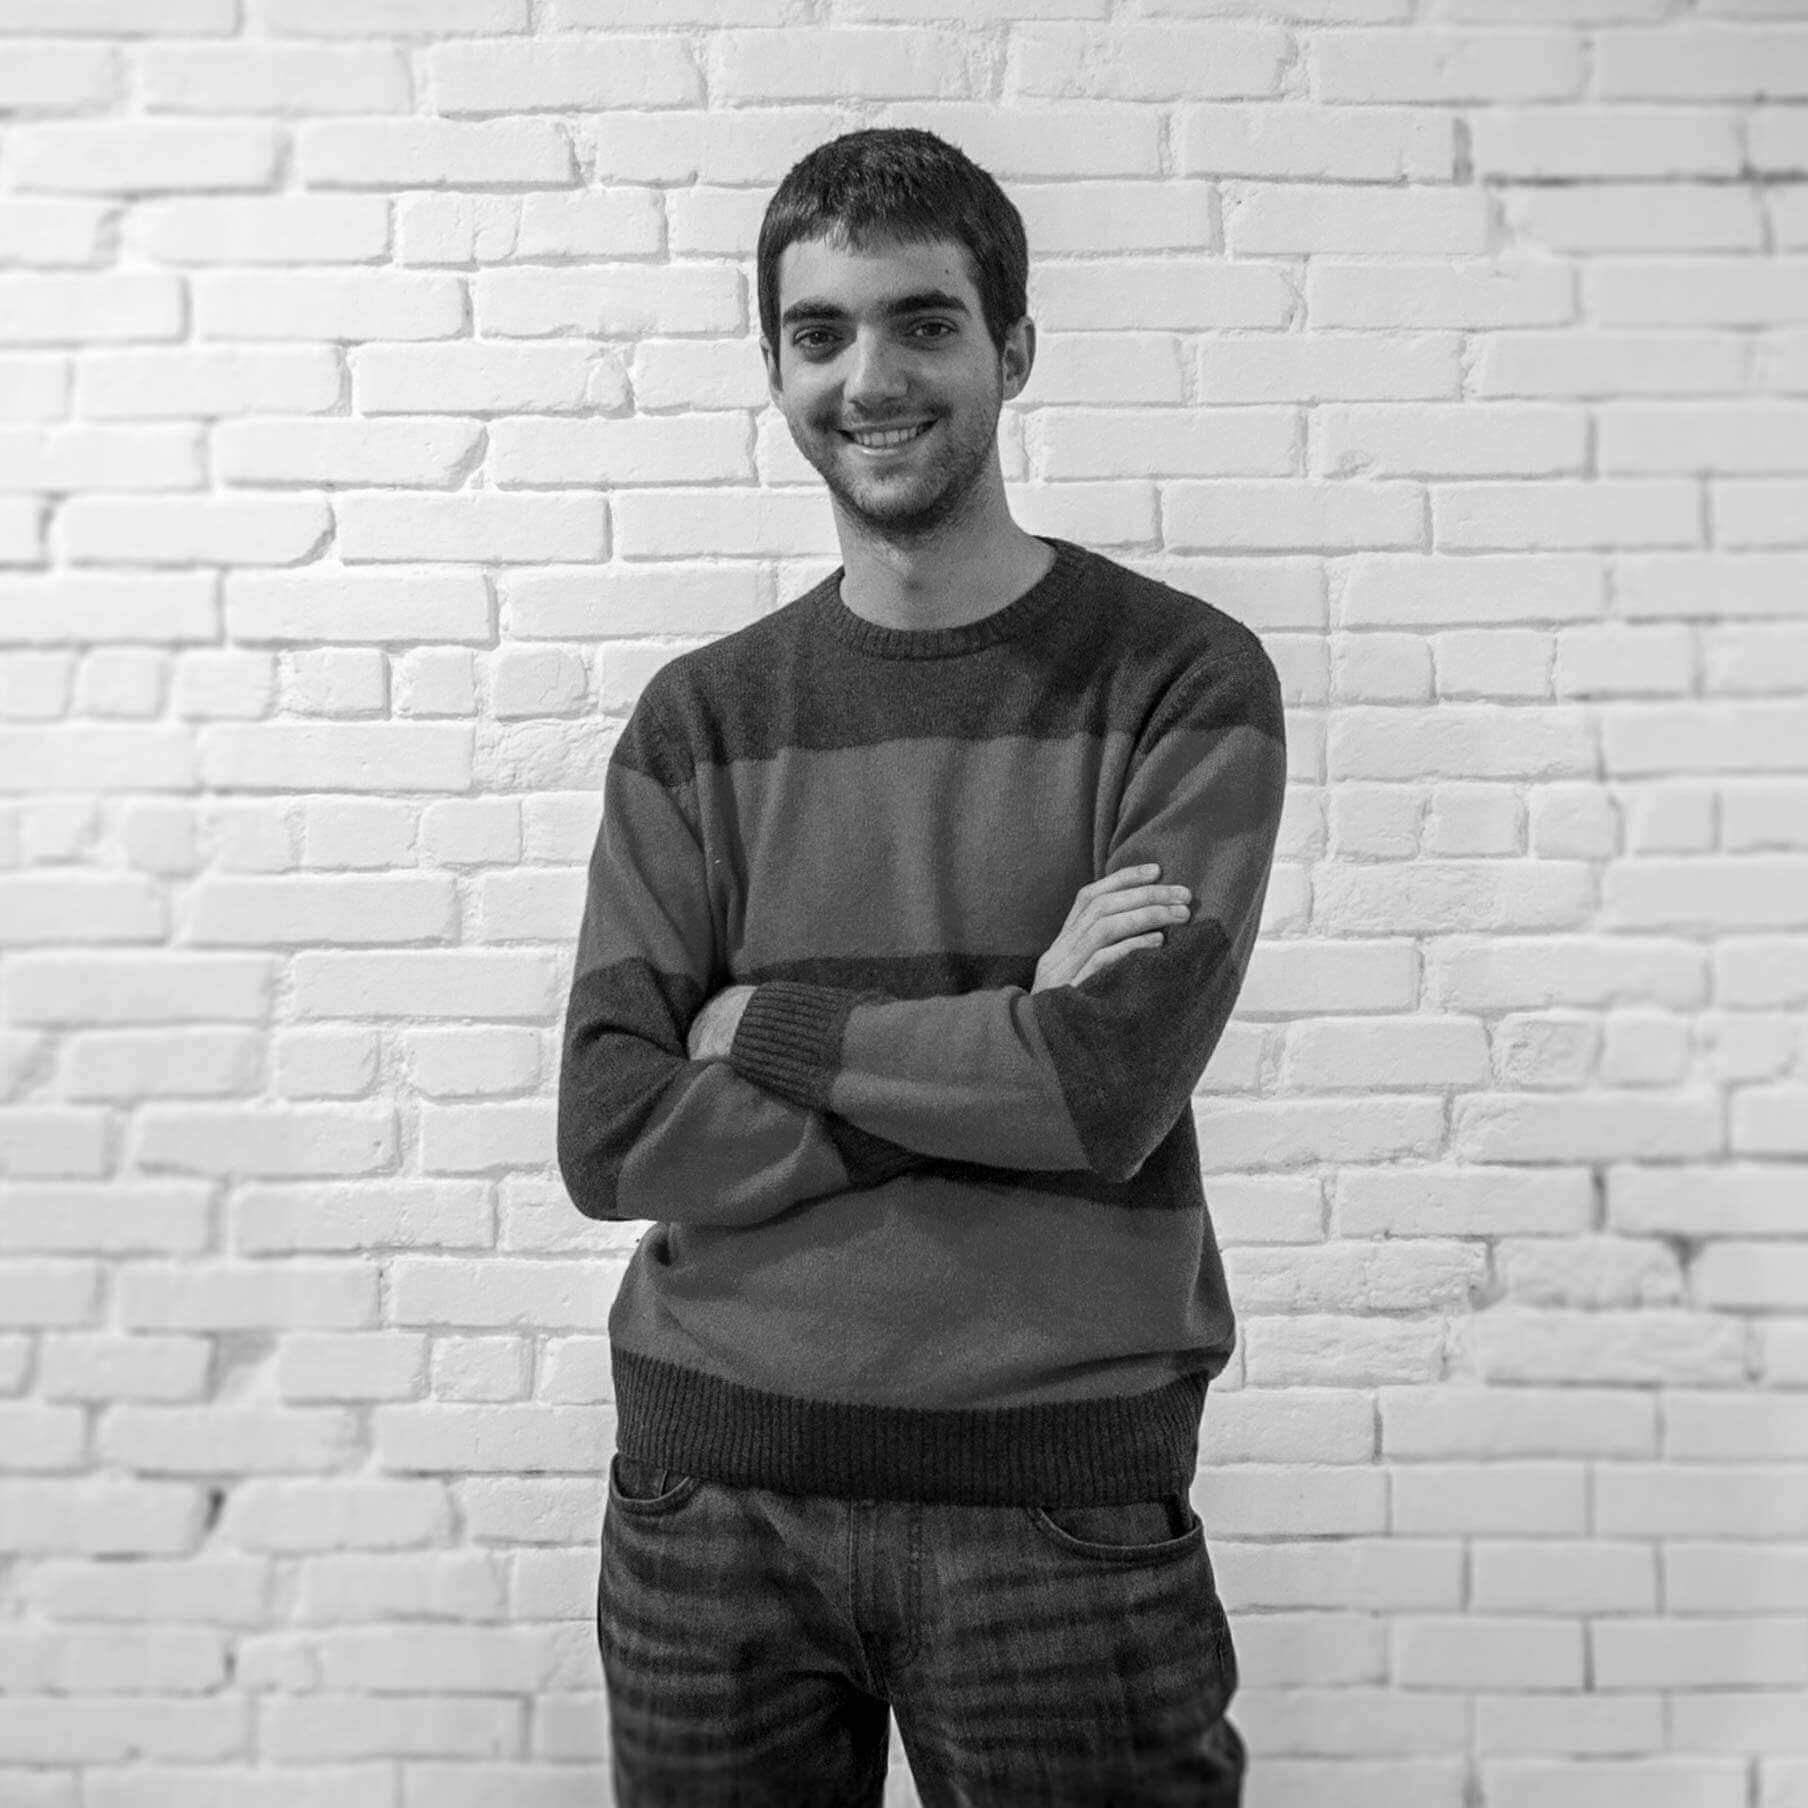
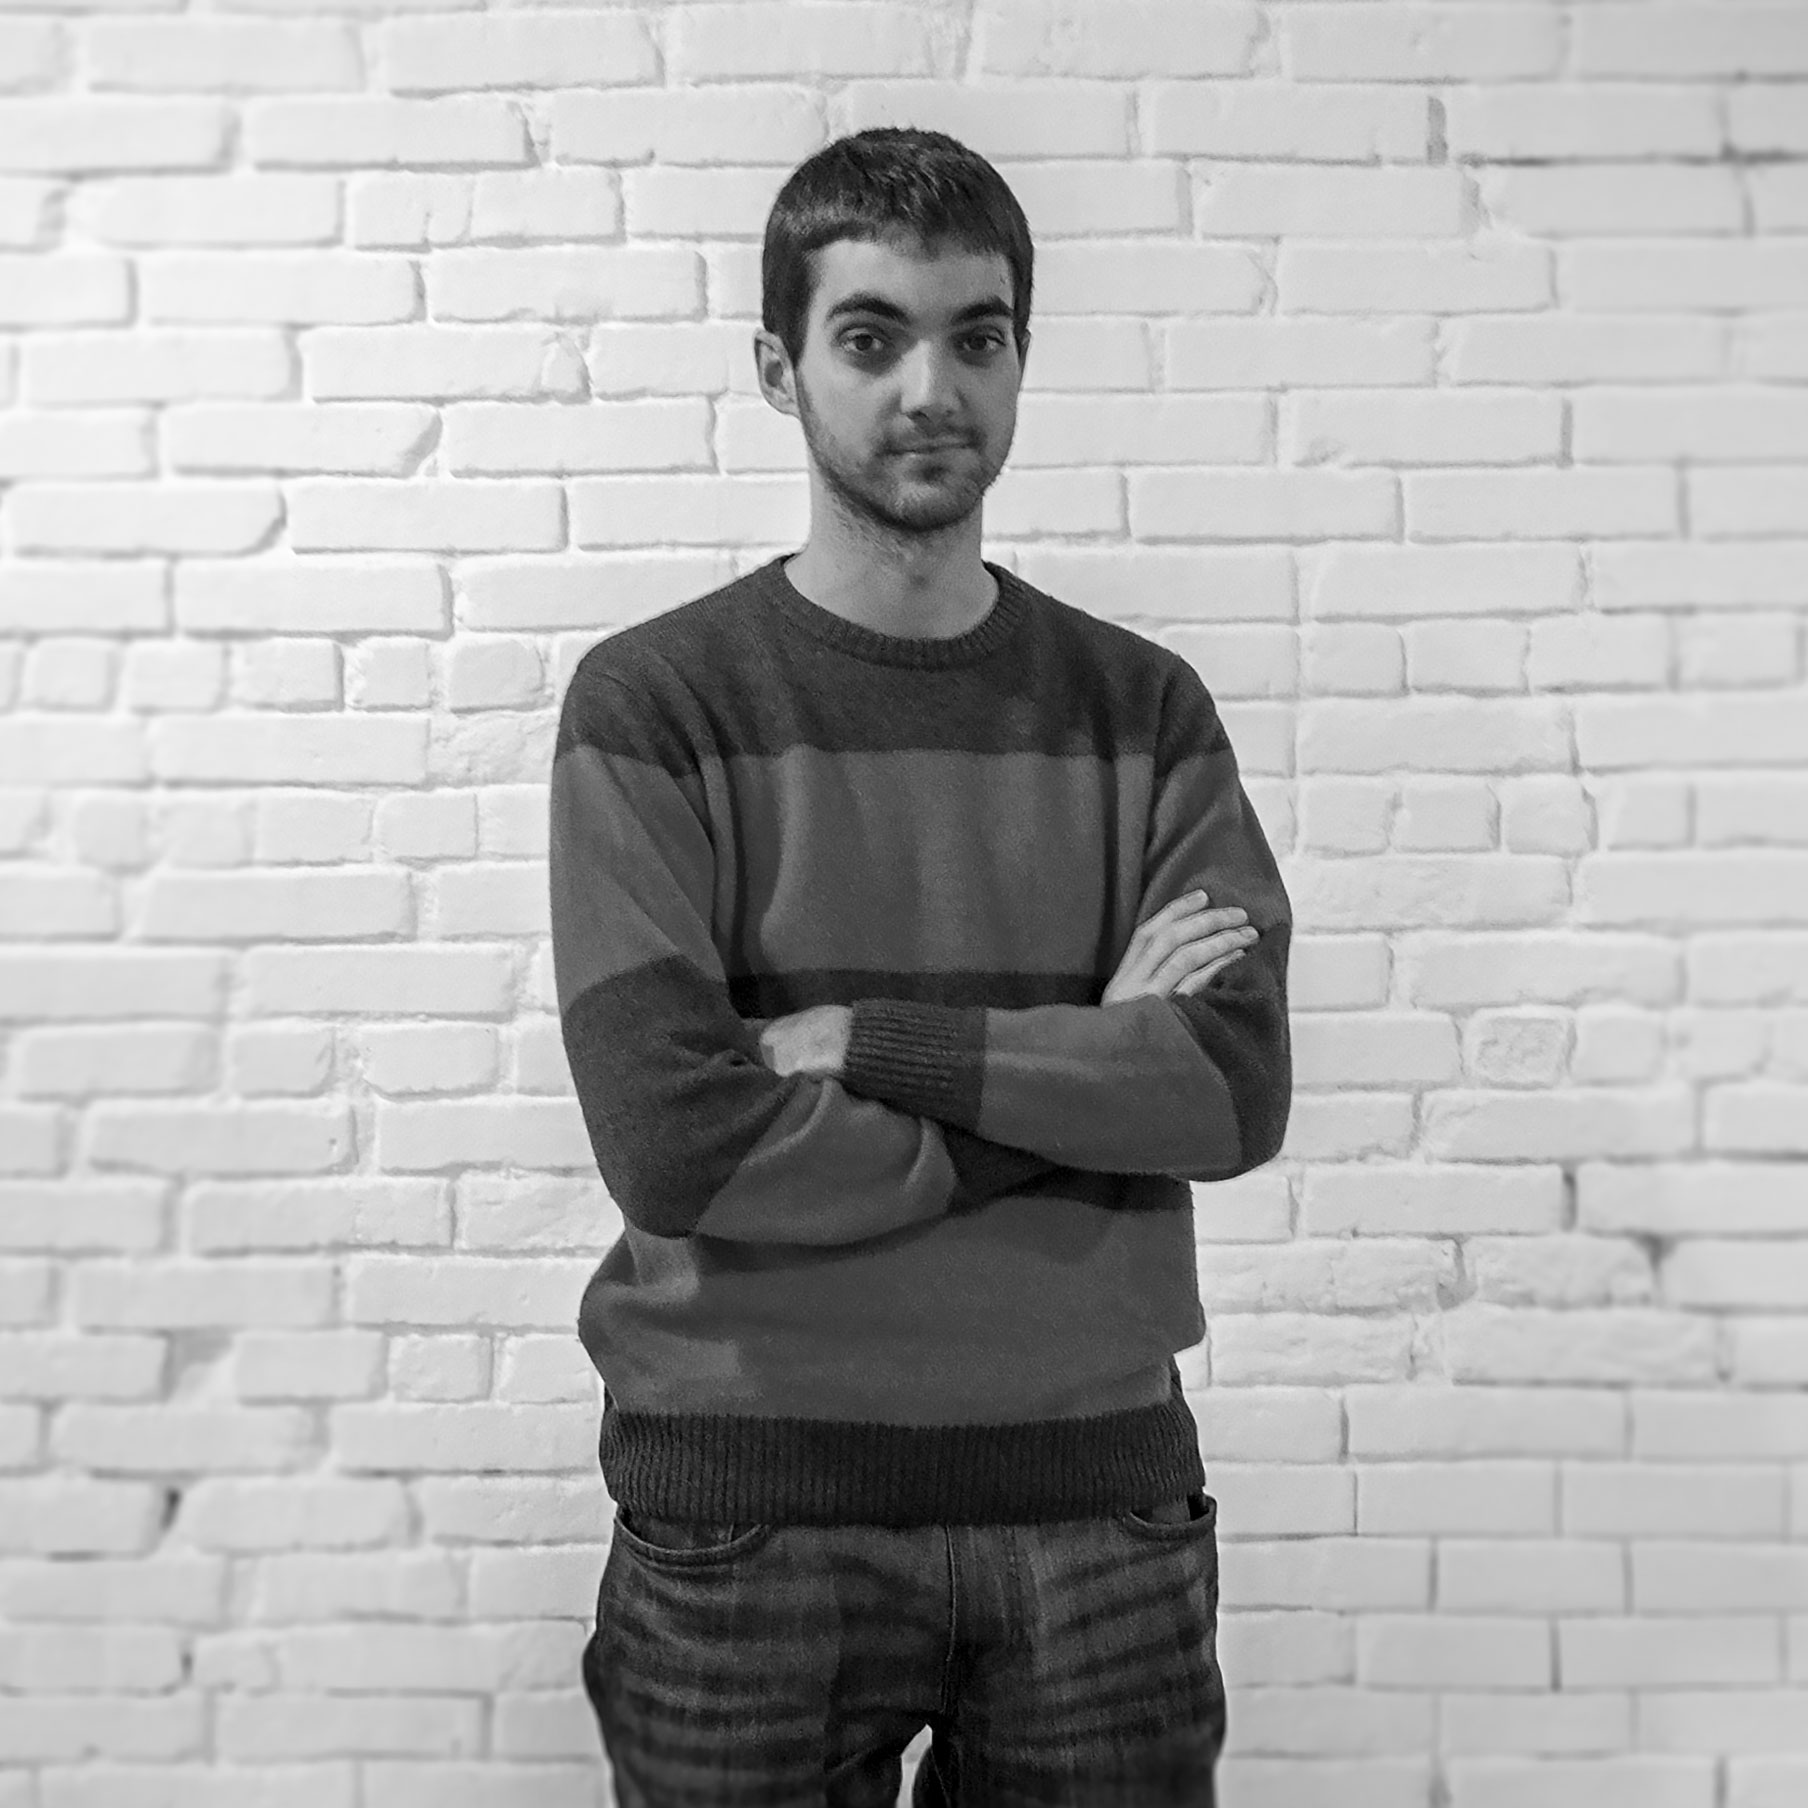
Isma picture replaced

diff --git a/app/styles/style.scss b/app/styles/style.scss
@@ -611,6 +611,12 @@ footer {
     img {
       width: 100%;
       max-width: 350px;
+      transition: opacity $normal-transition;
+    }
+    &:hover {
+      img {
+        opacity: .7;
+      }
     }
   }
 }
